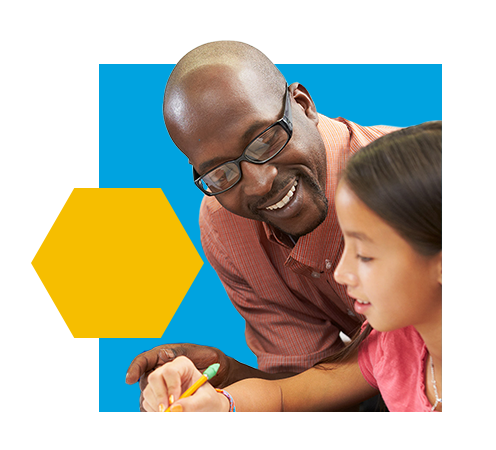
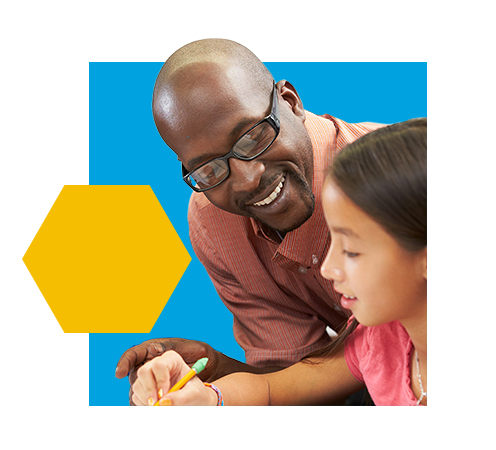
fix: update home images

Changed region(s): [[0.0302, 0.0622, 0.9073, 0.9333]]

diff --git a/portal/static/portal/sass/partials/_images.scss b/portal/static/portal/sass/partials/_images.scss
@@ -102,13 +102,13 @@ img {
 
 .educate-homepage {
   content: url("../img/home_educate.png");
-  width: 65%;
+  width: 70%;
   object-fit: contain;
 }
 
 .play-homepage {
   content: url("../img/home_play.png");
-  width: 65%;
+  width: 70%;
   object-fit: contain;
 }
 
